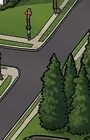
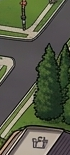
fix: Puddles easter egg refined, leaf-scatter burst, light mode text contrast
Puddles: precise hide/reveal coordinates, right-to-left clip-path wipe,
z-index step above the tree patch (no longer needs to physically clear
it), delayed return-to-hiding so he doesn't vanish mid-animation, and a
5-leaf scatter burst on each reveal.

Light mode: fixed a class of bugs where a blanket
`html.light .text-white -> dark navy` override (meant for the gray-900
app shell) was hijacking text on surfaces that don't follow site theme
(splash page photo, gradient/brand-color buttons, badges). Added a
missing bg-[#111] table entry that fixes 7 modal components at once,
and fixed a real inversion bug in VotingClient's toast (went
washed-out light gray in dark mode).

diff --git a/app/map/page.tsx b/app/map/page.tsx
@@ -34,22 +34,36 @@ const BANNER_X_OVERRIDE: Partial<Record<string, number>> = {
   "dorm-builders": 10,
 };
 
-// Puddles easter egg — hover trigger zone, centered over the pine-tree
-// cluster left of Dorm Capital. Image-space coords (fraction of
+// Puddles easter egg — hover trigger zone, centered over the single pine
+// tree left of Dorm Capital he hides behind. Image-space coords (fraction of
 // IMAGE_WIDTH/IMAGE_HEIGHT), like everything else positioned over the map art.
-const PUDDLES_ZONE_X = 1090;
-const PUDDLES_ZONE_Y = 555;
+const PUDDLES_ZONE_X = 1087;
+const PUDDLES_ZONE_Y = 593;
 const PUDDLES_ZONE_SIZE = 40; // px (screen-space, scales with map zoom since it's a child of the transformed pan layer)
 
-// Puddles himself. His rendered width/positions are all expressed in the same
-// image-space units as puddles-tree-cutout.png's placement (x:1045-1135,
-// y:485-625 below), a real crop of the map art re-composited on top of him —
-// so he's sized to fit, and stays aligned at every zoom level, entirely
-// hidden under it until he slides out to the left on hover.
-const PUDDLES_WIDTH_UNITS = 45; // fits well inside the 90x140 tree patch at native aspect
-const PUDDLES_HIDE_X = 1105; // bottom-center anchor, hidden behind the pines
-const PUDDLES_HIDE_Y = 615;
-const PUDDLES_REVEAL_X = PUDDLES_HIDE_X - 95; // slides left, clear of the patch's left edge (1045)
+// Puddles himself. His rendered width/position are expressed in the same
+// image-space units as puddles-tree-cutout.png's placement (x:1050-1120,
+// y:495-650 below), a real crop of that one tree re-composited on top of
+// him — so he's sized to fit, and stays aligned at every zoom level, entirely
+// hidden under it at rest. On hover he steps above the tree patch's z-index
+// and leans out to PUDDLES_REVEAL_X/Y with a right-to-left clip-path wipe
+// (see the JSX below), instead of popping straight up in place.
+const PUDDLES_WIDTH_UNITS = 18; // duck-sized against the map's buildings, not building-sized
+const PUDDLES_HIDE_X = 1084;
+const PUDDLES_HIDE_Y = 595;
+const PUDDLES_REVEAL_X = 1075;
+const PUDDLES_REVEAL_Y = 610;
+
+// Small leaf-scatter burst that plays once per reveal (see PUDDLES_REVEAL_KEY
+// remount trick below). Each leaf gets its own outward direction/distance/
+// spin/delay via CSS custom properties consumed by .animate-leaf-scatter.
+const PUDDLES_LEAVES = [
+  { dx: -14, dy: -10, rot: -70, delay: 0 },
+  { dx: -6, dy: -16, rot: 40, delay: 40 },
+  { dx: 4, dy: -18, rot: -30, delay: 80 },
+  { dx: 12, dy: -8, rot: 80, delay: 30 },
+  { dx: -10, dy: -4, rot: -50, delay: 110 },
+];
 
 const COLLABCURRENCY_URL = "https://collabcurrency.com";
 
@@ -179,6 +193,15 @@ export default function MapPage() {
   const [isZoomingActive, setIsZoomingActive] = useState(false);
   const [autzenOKey, setAutzenOKey] = useState<number | null>(null);
   const [puddlesHovered, setPuddlesHovered] = useState(false);
+  // Separate from puddlesHovered: z-index isn't animatable, so dropping him
+  // behind the tree the instant the mouse leaves would make him vanish
+  // mid-animation instead of visibly walking back into hiding. This stays
+  // true until the return transition below has actually finished playing.
+  const [puddlesAboveTree, setPuddlesAboveTree] = useState(false);
+  const puddlesLeaveTimeoutRef = useRef<ReturnType<typeof setTimeout> | null>(null);
+  // Bumped on every reveal so the leaf-scatter burst below remounts (and its
+  // CSS animation restarts) each time he jumps out, not just the first.
+  const [puddlesRevealKey, setPuddlesRevealKey] = useState(0);
 
   const isDraggingRef = useRef(false);
   const dragStartRef = useRef({ x: 0, y: 0 });
@@ -532,32 +555,87 @@ export default function MapPage() {
               height: PUDDLES_ZONE_SIZE,
               transform: "translate(-50%, -50%)",
             }}
-            onMouseEnter={() => setPuddlesHovered(true)}
-            onMouseLeave={() => setPuddlesHovered(false)}
+            onMouseEnter={() => {
+              if (puddlesLeaveTimeoutRef.current) clearTimeout(puddlesLeaveTimeoutRef.current);
+              setPuddlesAboveTree(true);
+              setPuddlesHovered(true);
+              setPuddlesRevealKey((k) => k + 1);
+            }}
+            onMouseLeave={() => {
+              setPuddlesHovered(false);
+              puddlesLeaveTimeoutRef.current = setTimeout(() => setPuddlesAboveTree(false), 700);
+            }}
           />
 
+          {/* Leaf-scatter burst — plays once per reveal, keyed so it remounts
+              (and its CSS animation restarts) every time he jumps out. */}
+          {puddlesHovered && (
+            <div
+              key={puddlesRevealKey}
+              className="absolute z-[23] pointer-events-none"
+              style={{
+                left: `${(PUDDLES_HIDE_X / IMAGE_WIDTH) * 100}%`,
+                top: `${(PUDDLES_HIDE_Y / IMAGE_HEIGHT) * 100}%`,
+                transform: "translate(-50%, -100%)",
+              }}
+            >
+              {PUDDLES_LEAVES.map((leaf, i) => (
+                <span
+                  key={i}
+                  className="absolute animate-leaf-scatter"
+                  style={{
+                    fontSize: 7,
+                    left: 0,
+                    top: 0,
+                    ["--leaf-dx" as string]: `${leaf.dx}px`,
+                    ["--leaf-dy" as string]: `${leaf.dy}px`,
+                    ["--leaf-rot" as string]: `${leaf.rot}deg`,
+                    animationDelay: `${leaf.delay}ms`,
+                  }}
+                >
+                  🍃
+                </span>
+              ))}
+            </div>
+          )}
+
           {/* Puddles himself — rests fully hidden under the tree cutout patch
-              below (z-21) and slides out to its left on hover. No opacity or
-              clip-path trick needed: the opaque patch does the occluding as
-              he moves out from under it, so the reveal grows naturally from
-              the left as he emerges. */}
+              (z-21) below at rest. On hover he steps above it (z-22) and
+              leans out to PUDDLES_REVEAL_X/Y with a right-to-left clip-path
+              wipe — the z-index step means he doesn't need to physically
+              clear the patch's edge to become visible, so this small lean
+              stays clear of the surrounding street geometry (lampposts, the
+              building wall) regardless of exactly how far he leans. */}
           <div
-            className="absolute z-20 pointer-events-none"
+            className="absolute pointer-events-none"
             style={{
               left: `${((puddlesHovered ? PUDDLES_REVEAL_X : PUDDLES_HIDE_X) / IMAGE_WIDTH) * 100}%`,
-              top: `${(PUDDLES_HIDE_Y / IMAGE_HEIGHT) * 100}%`,
+              top: `${((puddlesHovered ? PUDDLES_REVEAL_Y : PUDDLES_HIDE_Y) / IMAGE_HEIGHT) * 100}%`,
               width: `${(PUDDLES_WIDTH_UNITS / IMAGE_WIDTH) * 100}%`,
               transform: "translate(-50%, -100%)",
-              transition: "left 700ms ease",
+              zIndex: puddlesAboveTree ? 22 : 20,
+              transition: "left 700ms ease, top 700ms ease",
             }}
           >
-            {/* eslint-disable-next-line @next/next/no-img-element */}
-            <img
-              src="/puddles.png"
-              alt=""
-              style={{ width: "100%", height: "auto", display: "block" }}
-              draggable={false}
-            />
+            <div
+              style={{
+                clipPath: puddlesHovered ? "inset(0 0 0 0%)" : "inset(0 0 0 100%)",
+                transition: "clip-path 700ms ease",
+              }}
+            >
+              {/* eslint-disable-next-line @next/next/no-img-element */}
+              <img
+                src="/puddles.png"
+                alt=""
+                style={{
+                  width: "100%",
+                  height: "auto",
+                  display: "block",
+                  filter: "blur(0.15px)",
+                }}
+                draggable={false}
+              />
+            </div>
           </div>
 
           {/* Foreground tree cutout — cloned from the map art and layered above
@@ -568,10 +646,10 @@ export default function MapPage() {
             alt=""
             className="absolute z-[21] pointer-events-none select-none"
             style={{
-              left: `${(1045 / IMAGE_WIDTH) * 100}%`,
-              top: `${(485 / IMAGE_HEIGHT) * 100}%`,
-              width: `${(90 / IMAGE_WIDTH) * 100}%`,
-              height: `${(140 / IMAGE_HEIGHT) * 100}%`,
+              left: `${(1050 / IMAGE_WIDTH) * 100}%`,
+              top: `${(495 / IMAGE_HEIGHT) * 100}%`,
+              width: `${(70 / IMAGE_WIDTH) * 100}%`,
+              height: `${(155 / IMAGE_HEIGHT) * 100}%`,
             }}
             draggable={false}
           />
@@ -633,13 +711,13 @@ export default function MapPage() {
       </div>
 
       {/* Mobile fallback */}
-      <div className="md:hidden flex flex-col items-center justify-center w-screen h-screen bg-[#0a0a0a] px-6 text-center gap-3">
+      <div className="md:hidden flex flex-col items-center justify-center w-screen h-screen bg-black px-6 text-center gap-3">
         <span className="text-6xl">🍜</span>
         <h1 className="font-sans text-xl font-bold mt-2" style={{ color: "#ffffff" }}>Campus Map</h1>
         <p className="text-sm" style={{ color: "#9ca3af" }}>Best experienced on desktop</p>
         <Link
           href="/leaderboard"
-          className="mt-4 px-6 py-2.5 rounded-full font-sans font-semibold text-white text-sm"
+          className="mt-4 px-6 py-2.5 rounded-full font-sans font-semibold text-[#fff] text-sm"
           style={{ backgroundImage: "linear-gradient(180deg, #4CAF50 0%, #2d8a30 100%)" }}
         >
           Enter Dashboard
@@ -676,7 +754,7 @@ export default function MapPage() {
             <p className="text-sm mt-4" style={{ color: "#d1d5db" }}>{comingSoonZone.description}</p>
             <Link
               href="/leaderboard"
-              className="mt-6 inline-flex w-full items-center justify-center px-4 py-2.5 rounded-lg font-sans font-semibold text-white text-sm"
+              className="mt-6 inline-flex w-full items-center justify-center px-4 py-2.5 rounded-lg font-sans font-semibold text-[#fff] text-sm"
               style={{ backgroundImage: "linear-gradient(180deg, #4CAF50 0%, #2d8a30 100%)" }}
             >
               Enter Dashboard →

diff --git a/components/SchoolDocuments.tsx b/components/SchoolDocuments.tsx
@@ -15,14 +15,14 @@ function formatDocDate(dateStr: string | null): string {
 
 function TypeBadge({ type }: { type: string }) {
   if (type === "pitch_deck")
-    return <span className="inline-flex items-center px-2 py-0.5 rounded text-xs font-medium bg-blue-600 text-white border border-blue-700">Pitch Deck</span>;
+    return <span className="inline-flex items-center px-2 py-0.5 rounded text-xs font-medium bg-blue-600 text-[#fff] border border-blue-700">Pitch Deck</span>;
   if (type === "report")
-    return <span className="inline-flex items-center px-2 py-0.5 rounded text-xs font-medium bg-emerald-600 text-white border border-emerald-700">Fund Report</span>;
+    return <span className="inline-flex items-center px-2 py-0.5 rounded text-xs font-medium bg-emerald-600 text-[#fff] border border-emerald-700">Fund Report</span>;
   if (type === "thesis")
-    return <span className="inline-flex items-center px-2 py-0.5 rounded text-xs font-medium bg-purple-600 text-white border border-purple-700">Investment Thesis</span>;
+    return <span className="inline-flex items-center px-2 py-0.5 rounded text-xs font-medium bg-purple-600 text-[#fff] border border-purple-700">Investment Thesis</span>;
   if (type === "video")
-    return <span className="inline-flex items-center px-2 py-0.5 rounded text-xs font-medium bg-amber-600 text-white border border-amber-700">Video</span>;
-  return <span className="inline-flex items-center px-2 py-0.5 rounded text-xs font-medium bg-gray-500 text-white border border-gray-600">Document</span>;
+    return <span className="inline-flex items-center px-2 py-0.5 rounded text-xs font-medium bg-amber-600 text-[#fff] border border-amber-700">Video</span>;
+  return <span className="inline-flex items-center px-2 py-0.5 rounded text-xs font-medium bg-gray-500 text-[#fff] border border-gray-600">Document</span>;
 }
 
 function UploadForm({ schoolName, onUploaded }: { schoolName: string; onUploaded: () => void }) {
@@ -131,7 +131,7 @@ function UploadForm({ schoolName, onUploaded }: { schoolName: string; onUploaded
       <button
         type="submit"
         disabled={uploading || !title || (isVideo ? !videoUrl : !file)}
-        className="px-4 py-2 rounded-lg bg-primary text-white text-sm font-medium disabled:opacity-50"
+        className="px-4 py-2 rounded-lg bg-primary text-[#fff] text-sm font-medium disabled:opacity-50"
       >
         {uploading ? "Uploading…" : "Upload"}
       </button>

diff --git a/components/ProposalCard.tsx b/components/ProposalCard.tsx
@@ -386,7 +386,7 @@ export function ProposalCard({
                 <button
                   type="submit"
                   disabled={executing}
-                  className="flex-1 py-2.5 rounded-lg text-sm font-semibold bg-purple-600 dark:bg-purple-900/30 border border-purple-600 dark:border-purple-800/50 text-white dark:text-purple-300 hover:bg-purple-700 dark:hover:bg-purple-900/50 disabled:opacity-50 transition-colors flex items-center justify-center gap-2"
+                  className="flex-1 py-2.5 rounded-lg text-sm font-semibold bg-purple-600 dark:bg-purple-900/30 border border-purple-600 dark:border-purple-800/50 text-[#fff] dark:text-purple-300 hover:bg-purple-700 dark:hover:bg-purple-900/50 disabled:opacity-50 transition-colors flex items-center justify-center gap-2"
                 >
                   {executing && <Loader2 className="w-4 h-4 animate-spin" />}
                   Confirm Execution
@@ -434,7 +434,7 @@ export function ProposalCard({
                   type="button"
                   onClick={handleDeleteConfirm}
                   disabled={deleting}
-                  className="flex-1 py-2.5 rounded-lg text-sm font-semibold bg-red-600 text-white hover:bg-red-700 disabled:opacity-50 transition-colors flex items-center justify-center gap-2"
+                  className="flex-1 py-2.5 rounded-lg text-sm font-semibold bg-red-600 text-[#fff] hover:bg-red-700 disabled:opacity-50 transition-colors flex items-center justify-center gap-2"
                 >
                   {deleting && <Loader2 className="w-4 h-4 animate-spin" />}
                   Delete Proposal

diff --git a/components/FundDocuments.tsx b/components/FundDocuments.tsx
@@ -13,12 +13,12 @@ function formatDocDate(dateStr: string | null): string {
 
 function TypeBadge({ type }: { type: string }) {
   if (type === "pitch_deck")
-    return <span className="inline-flex items-center px-2 py-0.5 rounded text-xs font-medium bg-blue-600 text-white border border-blue-700">Pitch Deck</span>;
+    return <span className="inline-flex items-center px-2 py-0.5 rounded text-xs font-medium bg-blue-600 text-[#fff] border border-blue-700">Pitch Deck</span>;
   if (type === "report")
-    return <span className="inline-flex items-center px-2 py-0.5 rounded text-xs font-medium bg-emerald-600 text-white border border-emerald-700">Fund Report</span>;
+    return <span className="inline-flex items-center px-2 py-0.5 rounded text-xs font-medium bg-emerald-600 text-[#fff] border border-emerald-700">Fund Report</span>;
   if (type === "video")
-    return <span className="inline-flex items-center px-2 py-0.5 rounded text-xs font-medium bg-amber-600 text-white border border-amber-700">Video</span>;
-  return <span className="inline-flex items-center px-2 py-0.5 rounded text-xs font-medium bg-gray-500 text-white border border-gray-600">Document</span>;
+    return <span className="inline-flex items-center px-2 py-0.5 rounded text-xs font-medium bg-amber-600 text-[#fff] border border-amber-700">Video</span>;
+  return <span className="inline-flex items-center px-2 py-0.5 rounded text-xs font-medium bg-gray-500 text-[#fff] border border-gray-600">Document</span>;
 }
 
 export function FundDocuments({ ticker, refreshKey = 0 }: { ticker: string; refreshKey?: number }) {

diff --git a/app/globals.css b/app/globals.css
@@ -135,6 +135,11 @@ html.light .bg-\[\#0f1117\]\/95 { background-color: rgba(255, 255, 255, 0.97); }
 
 /* --- Backgrounds --- */
 html.light .bg-\[\#0a0a0a\] { background-color: #f4f4f5; }
+/* Elevated card/modal surfaces (bg-[#111]) — same treatment as bg-[#0a0a0a]
+   above. Missing this entry was the bug: these modals pair their background
+   with theme-following text (dark:text-white), which only reads correctly
+   if the background itself also flips in light mode. */
+html.light .bg-\[\#111\] { background-color: #f4f4f5; }
 html.light .bg-\[\#0f1117\] { background-color: #f4f4f5; }
 
 /* gray-900 variants */
@@ -234,6 +239,12 @@ html.light ::-webkit-scrollbar-thumb { background: #d4d4d8; }
   100% { transform: translate(var(--particle-drift, 8px), -140px); opacity: 0; }
 }
 .animate-particle-float { animation: particle-float var(--particle-duration, 6s) ease-in infinite; }
+
+@keyframes leaf-scatter {
+  0%   { transform: translate(0, 0) rotate(0deg); opacity: 1; }
+  100% { transform: translate(var(--leaf-dx, 10px), var(--leaf-dy, -12px)) rotate(var(--leaf-rot, 45deg)); opacity: 0; }
+}
+.animate-leaf-scatter { animation: leaf-scatter 550ms ease-out forwards; }
 
 @keyframes banner-fade-in {
   from { opacity: 0; transform: translate(-50%, 4px); }

diff --git a/app/page.tsx b/app/page.tsx
@@ -34,7 +34,7 @@ export default function SplashPage() {
       <div className="relative z-10 flex flex-col items-center justify-center w-full h-full px-4 text-center gap-7">
         <div className="flex items-center gap-3">
           <h1
-            className="font-sans font-extrabold lowercase text-white text-5xl sm:text-7xl md:text-8xl"
+            className="font-sans font-extrabold lowercase text-[#fff] text-5xl sm:text-7xl md:text-8xl"
             style={{ textShadow: "0 2px 24px rgba(0,0,0,0.55)" }}
           >
             dorm dao
@@ -49,7 +49,7 @@ export default function SplashPage() {
 
         <div className="flex flex-col sm:flex-row items-stretch gap-2 sm:gap-3 max-w-[92vw]">
           <div className="flex items-center justify-center rounded-xl bg-black px-6 py-3.5 sm:px-8 sm:py-4 shadow-xl">
-            <span className="font-sans font-semibold text-white text-sm sm:text-lg">
+            <span className="font-sans font-semibold text-[#fff] text-sm sm:text-lg">
               supporting student investment groups
             </span>
           </div>

diff --git a/components/NewsClient.tsx b/components/NewsClient.tsx
@@ -259,7 +259,7 @@ function SchoolFilterWidget({ schools, selected, onSelect }: {
             className={cn(
               "text-xs px-2.5 py-1 rounded-full border transition-colors",
               selected === s
-                ? "bg-primary text-white border-primary"
+                ? "bg-primary text-[#fff] border-primary"
                 : "border-gray-200 dark:border-white/10 text-gray-700 dark:text-gray-400 hover:border-gray-300 dark:hover:border-white/20"
             )}
           >
@@ -597,7 +597,7 @@ export function NewsClient() {
                 className={cn(
                   "shrink-0 whitespace-nowrap px-3 py-1.5 rounded-full text-xs font-medium border transition-colors",
                   categoryFilter === key
-                    ? "bg-primary text-white border-primary"
+                    ? "bg-primary text-[#fff] border-primary"
                     : "border-gray-200 dark:border-white/10 text-gray-700 dark:text-gray-400 hover:border-gray-300 dark:hover:border-white/20"
                 )}
               >

diff --git a/components/VotingClient.tsx b/components/VotingClient.tsx
@@ -328,7 +328,7 @@ export function VotingClient({ slug, schoolName, pageMode = false, isMainDao = f
       )}
 
       {toastMsg && (
-        <div className="fixed bottom-24 md:bottom-6 left-1/2 -translate-x-1/2 z-50 px-4 py-2.5 rounded-lg bg-gray-900 dark:bg-gray-100 text-white dark:text-gray-400 text-sm font-medium shadow-lg pointer-events-none">
+        <div className="fixed bottom-24 md:bottom-6 left-1/2 -translate-x-1/2 z-50 px-4 py-2.5 rounded-lg bg-gray-900 text-white text-sm font-medium shadow-lg pointer-events-none">
           {toastMsg}
         </div>
       )}

diff --git a/app/join/page.tsx b/app/join/page.tsx
@@ -164,7 +164,7 @@ export default function JoinPage() {
               </div>
 
               <button type="submit" disabled={submitting}
-                className="w-full py-2.5 rounded-lg bg-primary text-white text-sm font-semibold hover:opacity-90 disabled:opacity-50 transition-opacity">
+                className="w-full py-2.5 rounded-lg bg-primary text-[#fff] text-sm font-semibold hover:opacity-90 disabled:opacity-50 transition-opacity">
                 {submitting ? "Submitting…" : "Request Access"}
               </button>
 

diff --git a/components/notes/AddNoteForm.tsx b/components/notes/AddNoteForm.tsx
@@ -333,7 +333,7 @@ export function AddNoteForm({
         <button
           type="submit"
           disabled={loading}
-          className="px-4 py-2 rounded-lg bg-primary text-white text-sm font-medium disabled:opacity-40 hover:bg-primary-dark transition-colors"
+          className="px-4 py-2 rounded-lg bg-primary text-[#fff] text-sm font-medium disabled:opacity-40 hover:bg-primary-dark transition-colors"
         >
           {loading ? "Posting…" : "Post Note"}
         </button>

diff --git a/app/not-found.tsx b/app/not-found.tsx
@@ -8,7 +8,7 @@ export default function NotFound() {
       <p className="text-gray-700 dark:text-gray-400 text-sm">The page you&apos;re looking for doesn&apos;t exist.</p>
       <Link
         href="/"
-        className="px-4 py-2 rounded-lg bg-primary text-white text-sm font-medium hover:bg-primary-dark transition-colors"
+        className="px-4 py-2 rounded-lg bg-primary text-[#fff] text-sm font-medium hover:bg-primary-dark transition-colors"
       >
         Go home
       </Link>

diff --git a/components/ResearchTabs.tsx b/components/ResearchTabs.tsx
@@ -69,7 +69,7 @@ function Pill({ active, onClick, children }: {
       className={cn(
         "shrink-0 whitespace-nowrap text-xs px-2.5 py-1 rounded-full border transition-colors",
         active
-          ? "bg-primary text-white border-primary"
+          ? "bg-primary text-[#fff] border-primary"
           : "border-gray-200 dark:border-white/10 text-gray-700 dark:text-gray-400 bg-white dark:bg-transparent hover:border-gray-300 dark:hover:border-white/20"
       )}
     >
